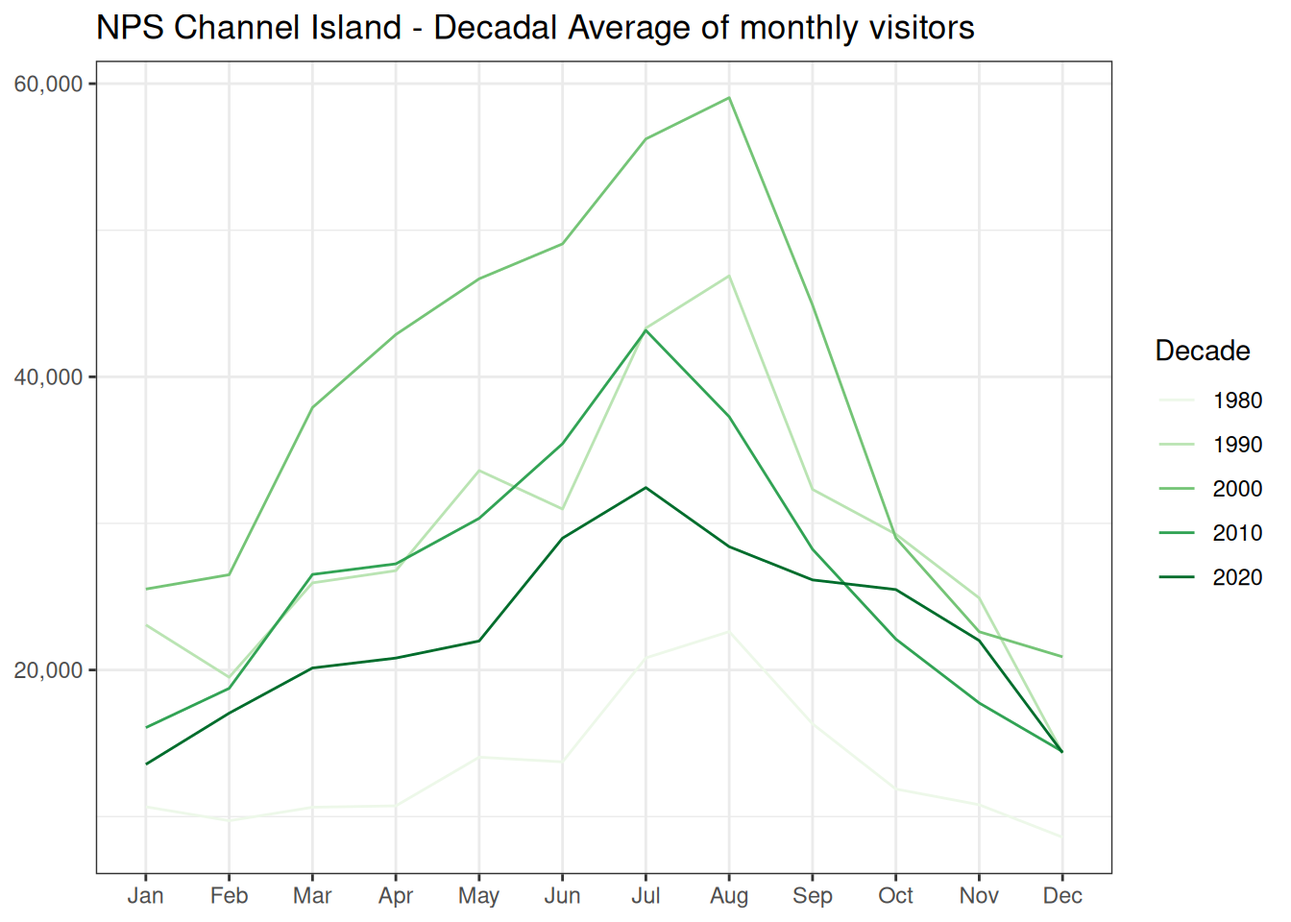
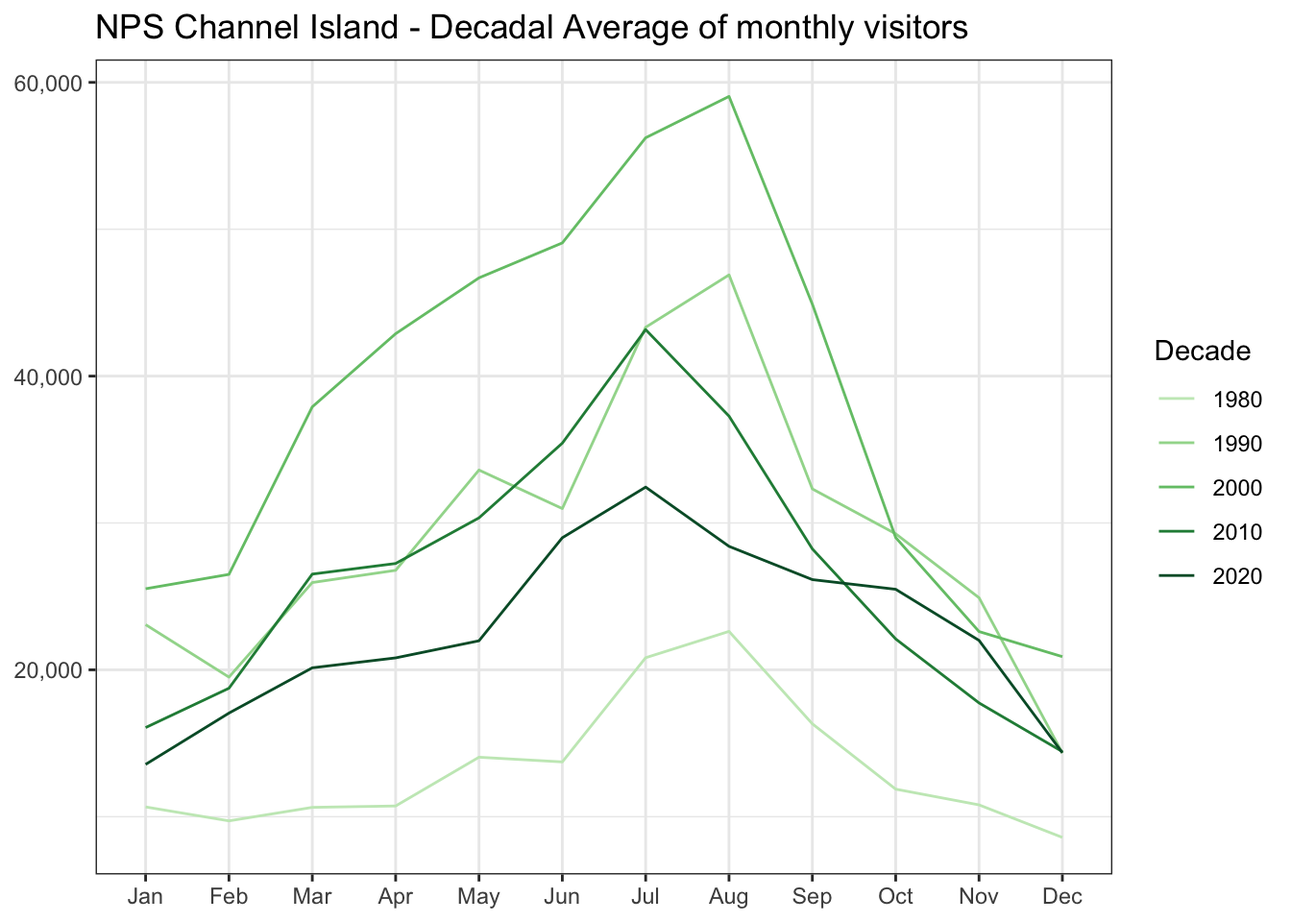
Built site for gh-pages

diff --git a/index.html b/index.html
@@ -259,15 +259,15 @@ dbl (2): Year, NoVisitors
 <span id="cb8-2"><a href="#cb8-2" aria-hidden="true" tabindex="-1"></a>  <span class="fu">select</span>(<span class="sc">-</span>Park) <span class="sc">%&gt;%</span></span>
 <span id="cb8-3"><a href="#cb8-3" aria-hidden="true" tabindex="-1"></a>  <span class="fu">datatable</span>(<span class="at">caption =</span> <span class="st">'Table 1: NPS Channel Island - Decadal Average of monthly visitors'</span>)</span></code></pre></div><button title="Copy to Clipboard" class="code-copy-button"><i class="bi"></i></button></div>
 <div class="cell-output-display">
-<div class="datatables html-widget html-fill-item" id="htmlwidget-0425effd98b37da865f1" style="width:100%;height:auto;"></div>
-<script type="application/json" data-for="htmlwidget-0425effd98b37da865f1">{"x":{"filter":"none","vertical":false,"caption":"<caption>Table 1: NPS Channel Island - Decadal Average of monthly visitors<\/caption>","data":[["1","2","3","4","5","6","7","8","9","10","11","12","13","14","15","16","17","18","19","20","21","22","23","24","25","26","27","28","29","30","31","32","33","34","35","36","37","38","39","40","41","42","43","44","45","46","47","48","49","50","51","52","53","54","55","56","57","58","59","60"],[1980,1980,1980,1980,1980,1980,1980,1980,1980,1980,1980,1980,1990,1990,1990,1990,1990,1990,1990,1990,1990,1990,1990,1990,2000,2000,2000,2000,2000,2000,2000,2000,2000,2000,2000,2000,2010,2010,2010,2010,2010,2010,2010,2010,2010,2010,2010,2010,2020,2020,2020,2020,2020,2020,2020,2020,2020,2020,2020,2020],["Jan","Feb","Mar","Apr","May","Jun","Jul","Aug","Sep","Oct","Nov","Dec","Jan","Feb","Mar","Apr","May","Jun","Jul","Aug","Sep","Oct","Nov","Dec","Jan","Feb","Mar","Apr","May","Jun","Jul","Aug","Sep","Oct","Nov","Dec","Jan","Feb","Mar","Apr","May","Jun","Jul","Aug","Sep","Oct","Nov","Dec","Jan","Feb","Mar","Apr","May","Jun","Jul","Aug","Sep","Oct","Nov","Dec"],[10665,9716,10636,10731,14051,13731,20825,22618,16324,11876,10805,8590,23078,19505,25944,26777,33604,30981,43325,46890,32319,29264,24909,14331,25521,26500,37906,42887,46689,49070,56229,59043,44894,29007,22607,20898,16069,18748,26519,27242,30348,35435,43166,37277,28235,22103,17747,14431,13562,17055,20138,20814,21978,28994,32442,28410,26144,25485,22004,14353]],"container":"<table class=\"display\">\n  <thead>\n    <tr>\n      <th> <\/th>\n      <th>Decade<\/th>\n      <th>Month<\/th>\n      <th>Decadal_avg<\/th>\n    <\/tr>\n  <\/thead>\n<\/table>","options":{"columnDefs":[{"className":"dt-right","targets":[1,3]},{"orderable":false,"targets":0},{"name":" ","targets":0},{"name":"Decade","targets":1},{"name":"Month","targets":2},{"name":"Decadal_avg","targets":3}],"order":[],"autoWidth":false,"orderClasses":false}},"evals":[],"jsHooks":[]}</script>
+<div class="datatables html-widget html-fill-item" id="htmlwidget-879a7034112667d10c1e" style="width:100%;height:auto;"></div>
+<script type="application/json" data-for="htmlwidget-879a7034112667d10c1e">{"x":{"filter":"none","vertical":false,"caption":"<caption>Table 1: NPS Channel Island - Decadal Average of monthly visitors<\/caption>","data":[["1","2","3","4","5","6","7","8","9","10","11","12","13","14","15","16","17","18","19","20","21","22","23","24","25","26","27","28","29","30","31","32","33","34","35","36","37","38","39","40","41","42","43","44","45","46","47","48","49","50","51","52","53","54","55","56","57","58","59","60"],[1980,1980,1980,1980,1980,1980,1980,1980,1980,1980,1980,1980,1990,1990,1990,1990,1990,1990,1990,1990,1990,1990,1990,1990,2000,2000,2000,2000,2000,2000,2000,2000,2000,2000,2000,2000,2010,2010,2010,2010,2010,2010,2010,2010,2010,2010,2010,2010,2020,2020,2020,2020,2020,2020,2020,2020,2020,2020,2020,2020],["Jan","Feb","Mar","Apr","May","Jun","Jul","Aug","Sep","Oct","Nov","Dec","Jan","Feb","Mar","Apr","May","Jun","Jul","Aug","Sep","Oct","Nov","Dec","Jan","Feb","Mar","Apr","May","Jun","Jul","Aug","Sep","Oct","Nov","Dec","Jan","Feb","Mar","Apr","May","Jun","Jul","Aug","Sep","Oct","Nov","Dec","Jan","Feb","Mar","Apr","May","Jun","Jul","Aug","Sep","Oct","Nov","Dec"],[10665,9716,10636,10731,14051,13731,20825,22618,16324,11876,10805,8590,23078,19505,25944,26777,33604,30981,43325,46890,32319,29264,24909,14331,25521,26500,37906,42887,46689,49070,56229,59043,44894,29007,22607,20898,16069,18748,26519,27242,30348,35435,43166,37277,28235,22103,17747,14431,13562,17055,20138,20814,21978,28994,32442,28410,26144,25485,22004,14353]],"container":"<table class=\"display\">\n  <thead>\n    <tr>\n      <th> <\/th>\n      <th>Decade<\/th>\n      <th>Month<\/th>\n      <th>Decadal_avg<\/th>\n    <\/tr>\n  <\/thead>\n<\/table>","options":{"columnDefs":[{"className":"dt-right","targets":[1,3]},{"orderable":false,"targets":0},{"name":" ","targets":0},{"name":"Decade","targets":1},{"name":"Month","targets":2},{"name":"Decadal_avg","targets":3}],"order":[],"autoWidth":false,"orderClasses":false}},"evals":[],"jsHooks":[]}</script>
 </div>
 </div>
 <div class="cell">
 <div class="code-copy-outer-scaffold"><div class="sourceCode cell-code" id="cb9"><pre class="sourceCode r code-with-copy"><code class="sourceCode r"><span id="cb9-1"><a href="#cb9-1" aria-hidden="true" tabindex="-1"></a>channel_island_p <span class="ot">&lt;-</span> <span class="fu">ggplot</span>(<span class="at">data =</span> channel_island_data, </span>
 <span id="cb9-2"><a href="#cb9-2" aria-hidden="true" tabindex="-1"></a>         <span class="at">mapping =</span> <span class="fu">aes</span>(<span class="at">x =</span> Month, <span class="at">y =</span> Decadal_avg, <span class="at">group =</span> Decade, <span class="at">color =</span> <span class="fu">as.character</span>(Decade))) <span class="sc">+</span></span>
 <span id="cb9-3"><a href="#cb9-3" aria-hidden="true" tabindex="-1"></a>  <span class="fu">geom_line</span>() <span class="sc">+</span></span>
-<span id="cb9-4"><a href="#cb9-4" aria-hidden="true" tabindex="-1"></a>  <span class="fu">scale_color_brewer</span>(<span class="at">name =</span> <span class="st">"Decade"</span>, <span class="at">palette =</span> <span class="st">"Greens"</span>) <span class="sc">+</span></span>
+<span id="cb9-4"><a href="#cb9-4" aria-hidden="true" tabindex="-1"></a>  <span class="fu">scale_color_discrete</span>(<span class="at">name =</span> <span class="st">"Decade"</span>, <span class="at">palette =</span> <span class="fu">c</span>(<span class="st">"#C7E9C0"</span>, <span class="st">"#A1D99B"</span>, <span class="st">"#74C476"</span>, <span class="st">"#238B45"</span>, <span class="st">"#005A32"</span>)) <span class="sc">+</span></span>
 <span id="cb9-5"><a href="#cb9-5" aria-hidden="true" tabindex="-1"></a>  <span class="fu">scale_y_continuous</span>(<span class="at">labels =</span> comma) <span class="sc">+</span> </span>
 <span id="cb9-6"><a href="#cb9-6" aria-hidden="true" tabindex="-1"></a>  <span class="fu">ggtitle</span>(<span class="st">"NPS Channel Island - Decadal Average of monthly visitors"</span>) <span class="sc">+</span></span>
 <span id="cb9-7"><a href="#cb9-7" aria-hidden="true" tabindex="-1"></a>  <span class="fu">theme_bw</span>() <span class="sc">+</span></span>
@@ -283,10 +283,10 @@ dbl (2): Year, NoVisitors
 </div>
 </div>
 <div class="cell">
-<div class="code-copy-outer-scaffold"><div class="sourceCode cell-code" id="cb10"><pre class="sourceCode r code-with-copy"><code class="sourceCode r"><span id="cb10-1"><a href="#cb10-1" aria-hidden="true" tabindex="-1"></a><span class="fu">ggplotly</span>(channel_island_p)</span></code></pre></div><button title="Copy to Clipboard" class="code-copy-button"><i class="bi"></i></button></div>
+<div class="code-copy-outer-scaffold"><div class="sourceCode cell-code" id="cb10"><pre class="sourceCode r code-with-copy"><code class="sourceCode r"><span id="cb10-1"><a href="#cb10-1" aria-hidden="true" tabindex="-1"></a><span class="fu">ggplotly</span>(channel_island_p, <span class="at">tooltip =</span> <span class="fu">c</span>(<span class="st">"Decade"</span>, <span class="st">"x"</span>, <span class="st">"y"</span>))</span></code></pre></div><button title="Copy to Clipboard" class="code-copy-button"><i class="bi"></i></button></div>
 <div class="cell-output-display">
-<div class="plotly html-widget html-fill-item" id="htmlwidget-f4ff930c5cdc90d9c027" style="width:100%;height:464px;"></div>
-<script type="application/json" data-for="htmlwidget-f4ff930c5cdc90d9c027">{"x":{"data":[{"x":[1,2,3,4,5,6,7,8,9,10,11,12],"y":[10665,9716,10636,10731,14051,13731,20825,22618,16324,11876,10805,8590],"text":["Month: Jan<br />Decadal_avg: 10665<br />Decade: 1980<br />as.character(Decade): 1980","Month: Feb<br />Decadal_avg:  9716<br />Decade: 1980<br />as.character(Decade): 1980","Month: Mar<br />Decadal_avg: 10636<br />Decade: 1980<br />as.character(Decade): 1980","Month: Apr<br />Decadal_avg: 10731<br />Decade: 1980<br />as.character(Decade): 1980","Month: May<br />Decadal_avg: 14051<br />Decade: 1980<br />as.character(Decade): 1980","Month: Jun<br />Decadal_avg: 13731<br />Decade: 1980<br />as.character(Decade): 1980","Month: Jul<br />Decadal_avg: 20825<br />Decade: 1980<br />as.character(Decade): 1980","Month: Aug<br />Decadal_avg: 22618<br />Decade: 1980<br />as.character(Decade): 1980","Month: Sep<br />Decadal_avg: 16324<br />Decade: 1980<br />as.character(Decade): 1980","Month: Oct<br />Decadal_avg: 11876<br />Decade: 1980<br />as.character(Decade): 1980","Month: Nov<br />Decadal_avg: 10805<br />Decade: 1980<br />as.character(Decade): 1980","Month: Dec<br />Decadal_avg:  8590<br />Decade: 1980<br />as.character(Decade): 1980"],"type":"scatter","mode":"lines","line":{"width":1.8897637795275593,"color":"rgba(237,248,233,1)","dash":"solid"},"hoveron":"points","name":"1980","legendgroup":"1980","showlegend":true,"xaxis":"x","yaxis":"y","hoverinfo":"text","frame":null},{"x":[1,2,3,4,5,6,7,8,9,10,11,12],"y":[23078,19505,25944,26777,33604,30981,43325,46890,32319,29264,24909,14331],"text":["Month: Jan<br />Decadal_avg: 23078<br />Decade: 1990<br />as.character(Decade): 1990","Month: Feb<br />Decadal_avg: 19505<br />Decade: 1990<br />as.character(Decade): 1990","Month: Mar<br />Decadal_avg: 25944<br />Decade: 1990<br />as.character(Decade): 1990","Month: Apr<br />Decadal_avg: 26777<br />Decade: 1990<br />as.character(Decade): 1990","Month: May<br />Decadal_avg: 33604<br />Decade: 1990<br />as.character(Decade): 1990","Month: Jun<br />Decadal_avg: 30981<br />Decade: 1990<br />as.character(Decade): 1990","Month: Jul<br />Decadal_avg: 43325<br />Decade: 1990<br />as.character(Decade): 1990","Month: Aug<br />Decadal_avg: 46890<br />Decade: 1990<br />as.character(Decade): 1990","Month: Sep<br />Decadal_avg: 32319<br />Decade: 1990<br />as.character(Decade): 1990","Month: Oct<br />Decadal_avg: 29264<br />Decade: 1990<br />as.character(Decade): 1990","Month: Nov<br />Decadal_avg: 24909<br />Decade: 1990<br />as.character(Decade): 1990","Month: Dec<br />Decadal_avg: 14331<br />Decade: 1990<br />as.character(Decade): 1990"],"type":"scatter","mode":"lines","line":{"width":1.8897637795275593,"color":"rgba(186,228,179,1)","dash":"solid"},"hoveron":"points","name":"1990","legendgroup":"1990","showlegend":true,"xaxis":"x","yaxis":"y","hoverinfo":"text","frame":null},{"x":[1,2,3,4,5,6,7,8,9,10,11,12],"y":[25521,26500,37906,42887,46689,49070,56229,59043,44894,29007,22607,20898],"text":["Month: Jan<br />Decadal_avg: 25521<br />Decade: 2000<br />as.character(Decade): 2000","Month: Feb<br />Decadal_avg: 26500<br />Decade: 2000<br />as.character(Decade): 2000","Month: Mar<br />Decadal_avg: 37906<br />Decade: 2000<br />as.character(Decade): 2000","Month: Apr<br />Decadal_avg: 42887<br />Decade: 2000<br />as.character(Decade): 2000","Month: May<br />Decadal_avg: 46689<br />Decade: 2000<br />as.character(Decade): 2000","Month: Jun<br />Decadal_avg: 49070<br />Decade: 2000<br />as.character(Decade): 2000","Month: Jul<br />Decadal_avg: 56229<br />Decade: 2000<br />as.character(Decade): 2000","Month: Aug<br />Decadal_avg: 59043<br />Decade: 2000<br />as.character(Decade): 2000","Month: Sep<br />Decadal_avg: 44894<br />Decade: 2000<br />as.character(Decade): 2000","Month: Oct<br />Decadal_avg: 29007<br />Decade: 2000<br />as.character(Decade): 2000","Month: Nov<br />Decadal_avg: 22607<br />Decade: 2000<br />as.character(Decade): 2000","Month: Dec<br />Decadal_avg: 20898<br />Decade: 2000<br />as.character(Decade): 2000"],"type":"scatter","mode":"lines","line":{"width":1.8897637795275593,"color":"rgba(116,196,118,1)","dash":"solid"},"hoveron":"points","name":"2000","legendgroup":"2000","showlegend":true,"xaxis":"x","yaxis":"y","hoverinfo":"text","frame":null},{"x":[1,2,3,4,5,6,7,8,9,10,11,12],"y":[16069,18748,26519,27242,30348,35435,43166,37277,28235,22103,17747,14431],"text":["Month: Jan<br />Decadal_avg: 16069<br />Decade: 2010<br />as.character(Decade): 2010","Month: Feb<br />Decadal_avg: 18748<br />Decade: 2010<br />as.character(Decade): 2010","Month: Mar<br />Decadal_avg: 26519<br />Decade: 2010<br />as.character(Decade): 2010","Month: Apr<br />Decadal_avg: 27242<br />Decade: 2010<br />as.character(Decade): 2010","Month: May<br />Decadal_avg: 30348<br />Decade: 2010<br />as.character(Decade): 2010","Month: Jun<br />Decadal_avg: 35435<br />Decade: 2010<br />as.character(Decade): 2010","Month: Jul<br />Decadal_avg: 43166<br />Decade: 2010<br />as.character(Decade): 2010","Month: Aug<br />Decadal_avg: 37277<br />Decade: 2010<br />as.character(Decade): 2010","Month: Sep<br />Decadal_avg: 28235<br />Decade: 2010<br />as.character(Decade): 2010","Month: Oct<br />Decadal_avg: 22103<br />Decade: 2010<br />as.character(Decade): 2010","Month: Nov<br />Decadal_avg: 17747<br />Decade: 2010<br />as.character(Decade): 2010","Month: Dec<br />Decadal_avg: 14431<br />Decade: 2010<br />as.character(Decade): 2010"],"type":"scatter","mode":"lines","line":{"width":1.8897637795275593,"color":"rgba(49,163,84,1)","dash":"solid"},"hoveron":"points","name":"2010","legendgroup":"2010","showlegend":true,"xaxis":"x","yaxis":"y","hoverinfo":"text","frame":null},{"x":[1,2,3,4,5,6,7,8,9,10,11,12],"y":[13562,17055,20138,20814,21978,28994,32442,28410,26144,25485,22004,14353],"text":["Month: Jan<br />Decadal_avg: 13562<br />Decade: 2020<br />as.character(Decade): 2020","Month: Feb<br />Decadal_avg: 17055<br />Decade: 2020<br />as.character(Decade): 2020","Month: Mar<br />Decadal_avg: 20138<br />Decade: 2020<br />as.character(Decade): 2020","Month: Apr<br />Decadal_avg: 20814<br />Decade: 2020<br />as.character(Decade): 2020","Month: May<br />Decadal_avg: 21978<br />Decade: 2020<br />as.character(Decade): 2020","Month: Jun<br />Decadal_avg: 28994<br />Decade: 2020<br />as.character(Decade): 2020","Month: Jul<br />Decadal_avg: 32442<br />Decade: 2020<br />as.character(Decade): 2020","Month: Aug<br />Decadal_avg: 28410<br />Decade: 2020<br />as.character(Decade): 2020","Month: Sep<br />Decadal_avg: 26144<br />Decade: 2020<br />as.character(Decade): 2020","Month: Oct<br />Decadal_avg: 25485<br />Decade: 2020<br />as.character(Decade): 2020","Month: Nov<br />Decadal_avg: 22004<br />Decade: 2020<br />as.character(Decade): 2020","Month: Dec<br />Decadal_avg: 14353<br />Decade: 2020<br />as.character(Decade): 2020"],"type":"scatter","mode":"lines","line":{"width":1.8897637795275593,"color":"rgba(0,109,44,1)","dash":"solid"},"hoveron":"points","name":"2020","legendgroup":"2020","showlegend":true,"xaxis":"x","yaxis":"y","hoverinfo":"text","frame":null}],"layout":{"margin":{"t":40.840182648401829,"r":7.3059360730593621,"b":22.648401826484022,"l":46.027397260273986},"plot_bgcolor":"rgba(255,255,255,1)","paper_bgcolor":"rgba(255,255,255,1)","font":{"color":"rgba(0,0,0,1)","family":"","size":14.611872146118724},"title":{"text":"NPS Channel Island - Decadal Average of monthly visitors","font":{"color":"rgba(0,0,0,1)","family":"","size":17.534246575342465},"x":0,"xref":"paper"},"xaxis":{"domain":[0,1],"automargin":true,"type":"linear","autorange":false,"range":[0.40000000000000002,12.6],"tickmode":"array","ticktext":["Jan","Feb","Mar","Apr","May","Jun","Jul","Aug","Sep","Oct","Nov","Dec"],"tickvals":[1,2,3,4.0000000000000009,5,6,7.0000000000000009,8,9,10,11,12],"categoryorder":"array","categoryarray":["Jan","Feb","Mar","Apr","May","Jun","Jul","Aug","Sep","Oct","Nov","Dec"],"nticks":null,"ticks":"outside","tickcolor":"rgba(51,51,51,1)","ticklen":3.6529680365296811,"tickwidth":0.66417600664176002,"showticklabels":true,"tickfont":{"color":"rgba(77,77,77,1)","family":"","size":11.68949771689498},"tickangle":-0,"showline":false,"linecolor":null,"linewidth":0,"showgrid":true,"gridcolor":"rgba(235,235,235,1)","gridwidth":0.66417600664176002,"zeroline":false,"anchor":"y","title":{"text":"","font":{"color":null,"family":null,"size":0}},"hoverformat":".2f"},"yaxis":{"domain":[0,1],"automargin":true,"type":"linear","autorange":false,"range":[6067.3500000000004,61565.650000000001],"tickmode":"array","ticktext":["20,000","40,000","60,000"],"tickvals":[20000,40000,60000],"categoryorder":"array","categoryarray":["20,000","40,000","60,000"],"nticks":null,"ticks":"outside","tickcolor":"rgba(51,51,51,1)","ticklen":3.6529680365296811,"tickwidth":0.66417600664176002,"showticklabels":true,"tickfont":{"color":"rgba(77,77,77,1)","family":"","size":11.68949771689498},"tickangle":-0,"showline":false,"linecolor":null,"linewidth":0,"showgrid":true,"gridcolor":"rgba(235,235,235,1)","gridwidth":0.66417600664176002,"zeroline":false,"anchor":"x","title":{"text":"","font":{"color":null,"family":null,"size":0}},"hoverformat":".2f"},"shapes":[{"type":"rect","fillcolor":"rgba(255,255,255,1)","line":{"color":"rgba(51,51,51,1)","width":0.66417600664176002,"linetype":"solid"},"yref":"paper","xref":"paper","layer":"below","x0":0,"x1":1,"y0":0,"y1":1}],"showlegend":true,"legend":{"bgcolor":"rgba(255,255,255,1)","bordercolor":"transparent","borderwidth":1.8897637795275593,"font":{"color":"rgba(0,0,0,1)","family":"","size":11.68949771689498},"title":{"text":"Decade","font":{"color":"rgba(0,0,0,1)","family":"","size":14.611872146118724}}},"hovermode":"closest","barmode":"relative"},"config":{"doubleClick":"reset","modeBarButtonsToAdd":["hoverclosest","hovercompare"],"showSendToCloud":false},"source":"A","attrs":{"1b9978296fd1":{"x":{},"y":{},"colour":{},"type":"scatter"}},"cur_data":"1b9978296fd1","visdat":{"1b9978296fd1":["function (y) ","x"]},"highlight":{"on":"plotly_click","persistent":false,"dynamic":false,"selectize":false,"opacityDim":0.20000000000000001,"selected":{"opacity":1},"debounce":0},"shinyEvents":["plotly_hover","plotly_click","plotly_selected","plotly_relayout","plotly_brushed","plotly_brushing","plotly_clickannotation","plotly_doubleclick","plotly_deselect","plotly_afterplot","plotly_sunburstclick"],"base_url":"https://plot.ly"},"evals":[],"jsHooks":[]}</script>
+<div class="plotly html-widget html-fill-item" id="htmlwidget-7dae3ed2842c4569d621" style="width:100%;height:464px;"></div>
+<script type="application/json" data-for="htmlwidget-7dae3ed2842c4569d621">{"x":{"data":[{"x":[1,2,3,4,5,6,7,8,9,10,11,12],"y":[10665,9716,10636,10731,14051,13731,20825,22618,16324,11876,10805,8590],"text":["Month: Jan<br />Decadal_avg: 10665<br />Decade: 1980","Month: Feb<br />Decadal_avg:  9716<br />Decade: 1980","Month: Mar<br />Decadal_avg: 10636<br />Decade: 1980","Month: Apr<br />Decadal_avg: 10731<br />Decade: 1980","Month: May<br />Decadal_avg: 14051<br />Decade: 1980","Month: Jun<br />Decadal_avg: 13731<br />Decade: 1980","Month: Jul<br />Decadal_avg: 20825<br />Decade: 1980","Month: Aug<br />Decadal_avg: 22618<br />Decade: 1980","Month: Sep<br />Decadal_avg: 16324<br />Decade: 1980","Month: Oct<br />Decadal_avg: 11876<br />Decade: 1980","Month: Nov<br />Decadal_avg: 10805<br />Decade: 1980","Month: Dec<br />Decadal_avg:  8590<br />Decade: 1980"],"type":"scatter","mode":"lines","line":{"width":1.8897637795275593,"color":"rgba(199,233,192,1)","dash":"solid"},"hoveron":"points","name":"1980","legendgroup":"1980","showlegend":true,"xaxis":"x","yaxis":"y","hoverinfo":"text","frame":null},{"x":[1,2,3,4,5,6,7,8,9,10,11,12],"y":[23078,19505,25944,26777,33604,30981,43325,46890,32319,29264,24909,14331],"text":["Month: Jan<br />Decadal_avg: 23078<br />Decade: 1990","Month: Feb<br />Decadal_avg: 19505<br />Decade: 1990","Month: Mar<br />Decadal_avg: 25944<br />Decade: 1990","Month: Apr<br />Decadal_avg: 26777<br />Decade: 1990","Month: May<br />Decadal_avg: 33604<br />Decade: 1990","Month: Jun<br />Decadal_avg: 30981<br />Decade: 1990","Month: Jul<br />Decadal_avg: 43325<br />Decade: 1990","Month: Aug<br />Decadal_avg: 46890<br />Decade: 1990","Month: Sep<br />Decadal_avg: 32319<br />Decade: 1990","Month: Oct<br />Decadal_avg: 29264<br />Decade: 1990","Month: Nov<br />Decadal_avg: 24909<br />Decade: 1990","Month: Dec<br />Decadal_avg: 14331<br />Decade: 1990"],"type":"scatter","mode":"lines","line":{"width":1.8897637795275593,"color":"rgba(161,217,155,1)","dash":"solid"},"hoveron":"points","name":"1990","legendgroup":"1990","showlegend":true,"xaxis":"x","yaxis":"y","hoverinfo":"text","frame":null},{"x":[1,2,3,4,5,6,7,8,9,10,11,12],"y":[25521,26500,37906,42887,46689,49070,56229,59043,44894,29007,22607,20898],"text":["Month: Jan<br />Decadal_avg: 25521<br />Decade: 2000","Month: Feb<br />Decadal_avg: 26500<br />Decade: 2000","Month: Mar<br />Decadal_avg: 37906<br />Decade: 2000","Month: Apr<br />Decadal_avg: 42887<br />Decade: 2000","Month: May<br />Decadal_avg: 46689<br />Decade: 2000","Month: Jun<br />Decadal_avg: 49070<br />Decade: 2000","Month: Jul<br />Decadal_avg: 56229<br />Decade: 2000","Month: Aug<br />Decadal_avg: 59043<br />Decade: 2000","Month: Sep<br />Decadal_avg: 44894<br />Decade: 2000","Month: Oct<br />Decadal_avg: 29007<br />Decade: 2000","Month: Nov<br />Decadal_avg: 22607<br />Decade: 2000","Month: Dec<br />Decadal_avg: 20898<br />Decade: 2000"],"type":"scatter","mode":"lines","line":{"width":1.8897637795275593,"color":"rgba(116,196,118,1)","dash":"solid"},"hoveron":"points","name":"2000","legendgroup":"2000","showlegend":true,"xaxis":"x","yaxis":"y","hoverinfo":"text","frame":null},{"x":[1,2,3,4,5,6,7,8,9,10,11,12],"y":[16069,18748,26519,27242,30348,35435,43166,37277,28235,22103,17747,14431],"text":["Month: Jan<br />Decadal_avg: 16069<br />Decade: 2010","Month: Feb<br />Decadal_avg: 18748<br />Decade: 2010","Month: Mar<br />Decadal_avg: 26519<br />Decade: 2010","Month: Apr<br />Decadal_avg: 27242<br />Decade: 2010","Month: May<br />Decadal_avg: 30348<br />Decade: 2010","Month: Jun<br />Decadal_avg: 35435<br />Decade: 2010","Month: Jul<br />Decadal_avg: 43166<br />Decade: 2010","Month: Aug<br />Decadal_avg: 37277<br />Decade: 2010","Month: Sep<br />Decadal_avg: 28235<br />Decade: 2010","Month: Oct<br />Decadal_avg: 22103<br />Decade: 2010","Month: Nov<br />Decadal_avg: 17747<br />Decade: 2010","Month: Dec<br />Decadal_avg: 14431<br />Decade: 2010"],"type":"scatter","mode":"lines","line":{"width":1.8897637795275593,"color":"rgba(35,139,69,1)","dash":"solid"},"hoveron":"points","name":"2010","legendgroup":"2010","showlegend":true,"xaxis":"x","yaxis":"y","hoverinfo":"text","frame":null},{"x":[1,2,3,4,5,6,7,8,9,10,11,12],"y":[13562,17055,20138,20814,21978,28994,32442,28410,26144,25485,22004,14353],"text":["Month: Jan<br />Decadal_avg: 13562<br />Decade: 2020","Month: Feb<br />Decadal_avg: 17055<br />Decade: 2020","Month: Mar<br />Decadal_avg: 20138<br />Decade: 2020","Month: Apr<br />Decadal_avg: 20814<br />Decade: 2020","Month: May<br />Decadal_avg: 21978<br />Decade: 2020","Month: Jun<br />Decadal_avg: 28994<br />Decade: 2020","Month: Jul<br />Decadal_avg: 32442<br />Decade: 2020","Month: Aug<br />Decadal_avg: 28410<br />Decade: 2020","Month: Sep<br />Decadal_avg: 26144<br />Decade: 2020","Month: Oct<br />Decadal_avg: 25485<br />Decade: 2020","Month: Nov<br />Decadal_avg: 22004<br />Decade: 2020","Month: Dec<br />Decadal_avg: 14353<br />Decade: 2020"],"type":"scatter","mode":"lines","line":{"width":1.8897637795275593,"color":"rgba(0,90,50,1)","dash":"solid"},"hoveron":"points","name":"2020","legendgroup":"2020","showlegend":true,"xaxis":"x","yaxis":"y","hoverinfo":"text","frame":null}],"layout":{"margin":{"t":40.840182648401829,"r":7.3059360730593621,"b":22.648401826484022,"l":46.027397260273986},"plot_bgcolor":"rgba(255,255,255,1)","paper_bgcolor":"rgba(255,255,255,1)","font":{"color":"rgba(0,0,0,1)","family":"","size":14.611872146118724},"title":{"text":"NPS Channel Island - Decadal Average of monthly visitors","font":{"color":"rgba(0,0,0,1)","family":"","size":17.534246575342465},"x":0,"xref":"paper"},"xaxis":{"domain":[0,1],"automargin":true,"type":"linear","autorange":false,"range":[0.40000000000000002,12.6],"tickmode":"array","ticktext":["Jan","Feb","Mar","Apr","May","Jun","Jul","Aug","Sep","Oct","Nov","Dec"],"tickvals":[1,2,3,4.0000000000000009,5,6,7.0000000000000009,8,9,10,11,12],"categoryorder":"array","categoryarray":["Jan","Feb","Mar","Apr","May","Jun","Jul","Aug","Sep","Oct","Nov","Dec"],"nticks":null,"ticks":"outside","tickcolor":"rgba(51,51,51,1)","ticklen":3.6529680365296811,"tickwidth":0.66417600664176002,"showticklabels":true,"tickfont":{"color":"rgba(77,77,77,1)","family":"","size":11.68949771689498},"tickangle":-0,"showline":false,"linecolor":null,"linewidth":0,"showgrid":true,"gridcolor":"rgba(235,235,235,1)","gridwidth":0.66417600664176002,"zeroline":false,"anchor":"y","title":{"text":"","font":{"color":null,"family":null,"size":0}},"hoverformat":".2f"},"yaxis":{"domain":[0,1],"automargin":true,"type":"linear","autorange":false,"range":[6067.3500000000004,61565.650000000001],"tickmode":"array","ticktext":["20,000","40,000","60,000"],"tickvals":[20000,40000,60000],"categoryorder":"array","categoryarray":["20,000","40,000","60,000"],"nticks":null,"ticks":"outside","tickcolor":"rgba(51,51,51,1)","ticklen":3.6529680365296811,"tickwidth":0.66417600664176002,"showticklabels":true,"tickfont":{"color":"rgba(77,77,77,1)","family":"","size":11.68949771689498},"tickangle":-0,"showline":false,"linecolor":null,"linewidth":0,"showgrid":true,"gridcolor":"rgba(235,235,235,1)","gridwidth":0.66417600664176002,"zeroline":false,"anchor":"x","title":{"text":"","font":{"color":null,"family":null,"size":0}},"hoverformat":".2f"},"shapes":[{"type":"rect","fillcolor":"rgba(255,255,255,1)","line":{"color":"rgba(51,51,51,1)","width":0.66417600664176002,"linetype":"solid"},"yref":"paper","xref":"paper","layer":"below","x0":0,"x1":1,"y0":0,"y1":1}],"showlegend":true,"legend":{"bgcolor":"rgba(255,255,255,1)","bordercolor":"transparent","borderwidth":1.8897637795275593,"font":{"color":"rgba(0,0,0,1)","family":"","size":11.68949771689498},"title":{"text":"Decade","font":{"color":"rgba(0,0,0,1)","family":"","size":14.611872146118724}}},"hovermode":"closest","barmode":"relative"},"config":{"doubleClick":"reset","modeBarButtonsToAdd":["hoverclosest","hovercompare"],"showSendToCloud":false},"source":"A","attrs":{"1c2343e5065d":{"x":{},"y":{},"colour":{},"type":"scatter"}},"cur_data":"1c2343e5065d","visdat":{"1c2343e5065d":["function (y) ","x"]},"highlight":{"on":"plotly_click","persistent":false,"dynamic":false,"selectize":false,"opacityDim":0.20000000000000001,"selected":{"opacity":1},"debounce":0},"shinyEvents":["plotly_hover","plotly_click","plotly_selected","plotly_relayout","plotly_brushed","plotly_brushing","plotly_clickannotation","plotly_doubleclick","plotly_deselect","plotly_afterplot","plotly_sunburstclick"],"base_url":"https://plot.ly"},"evals":[],"jsHooks":[]}</script>
 </div>
 </div>
 
